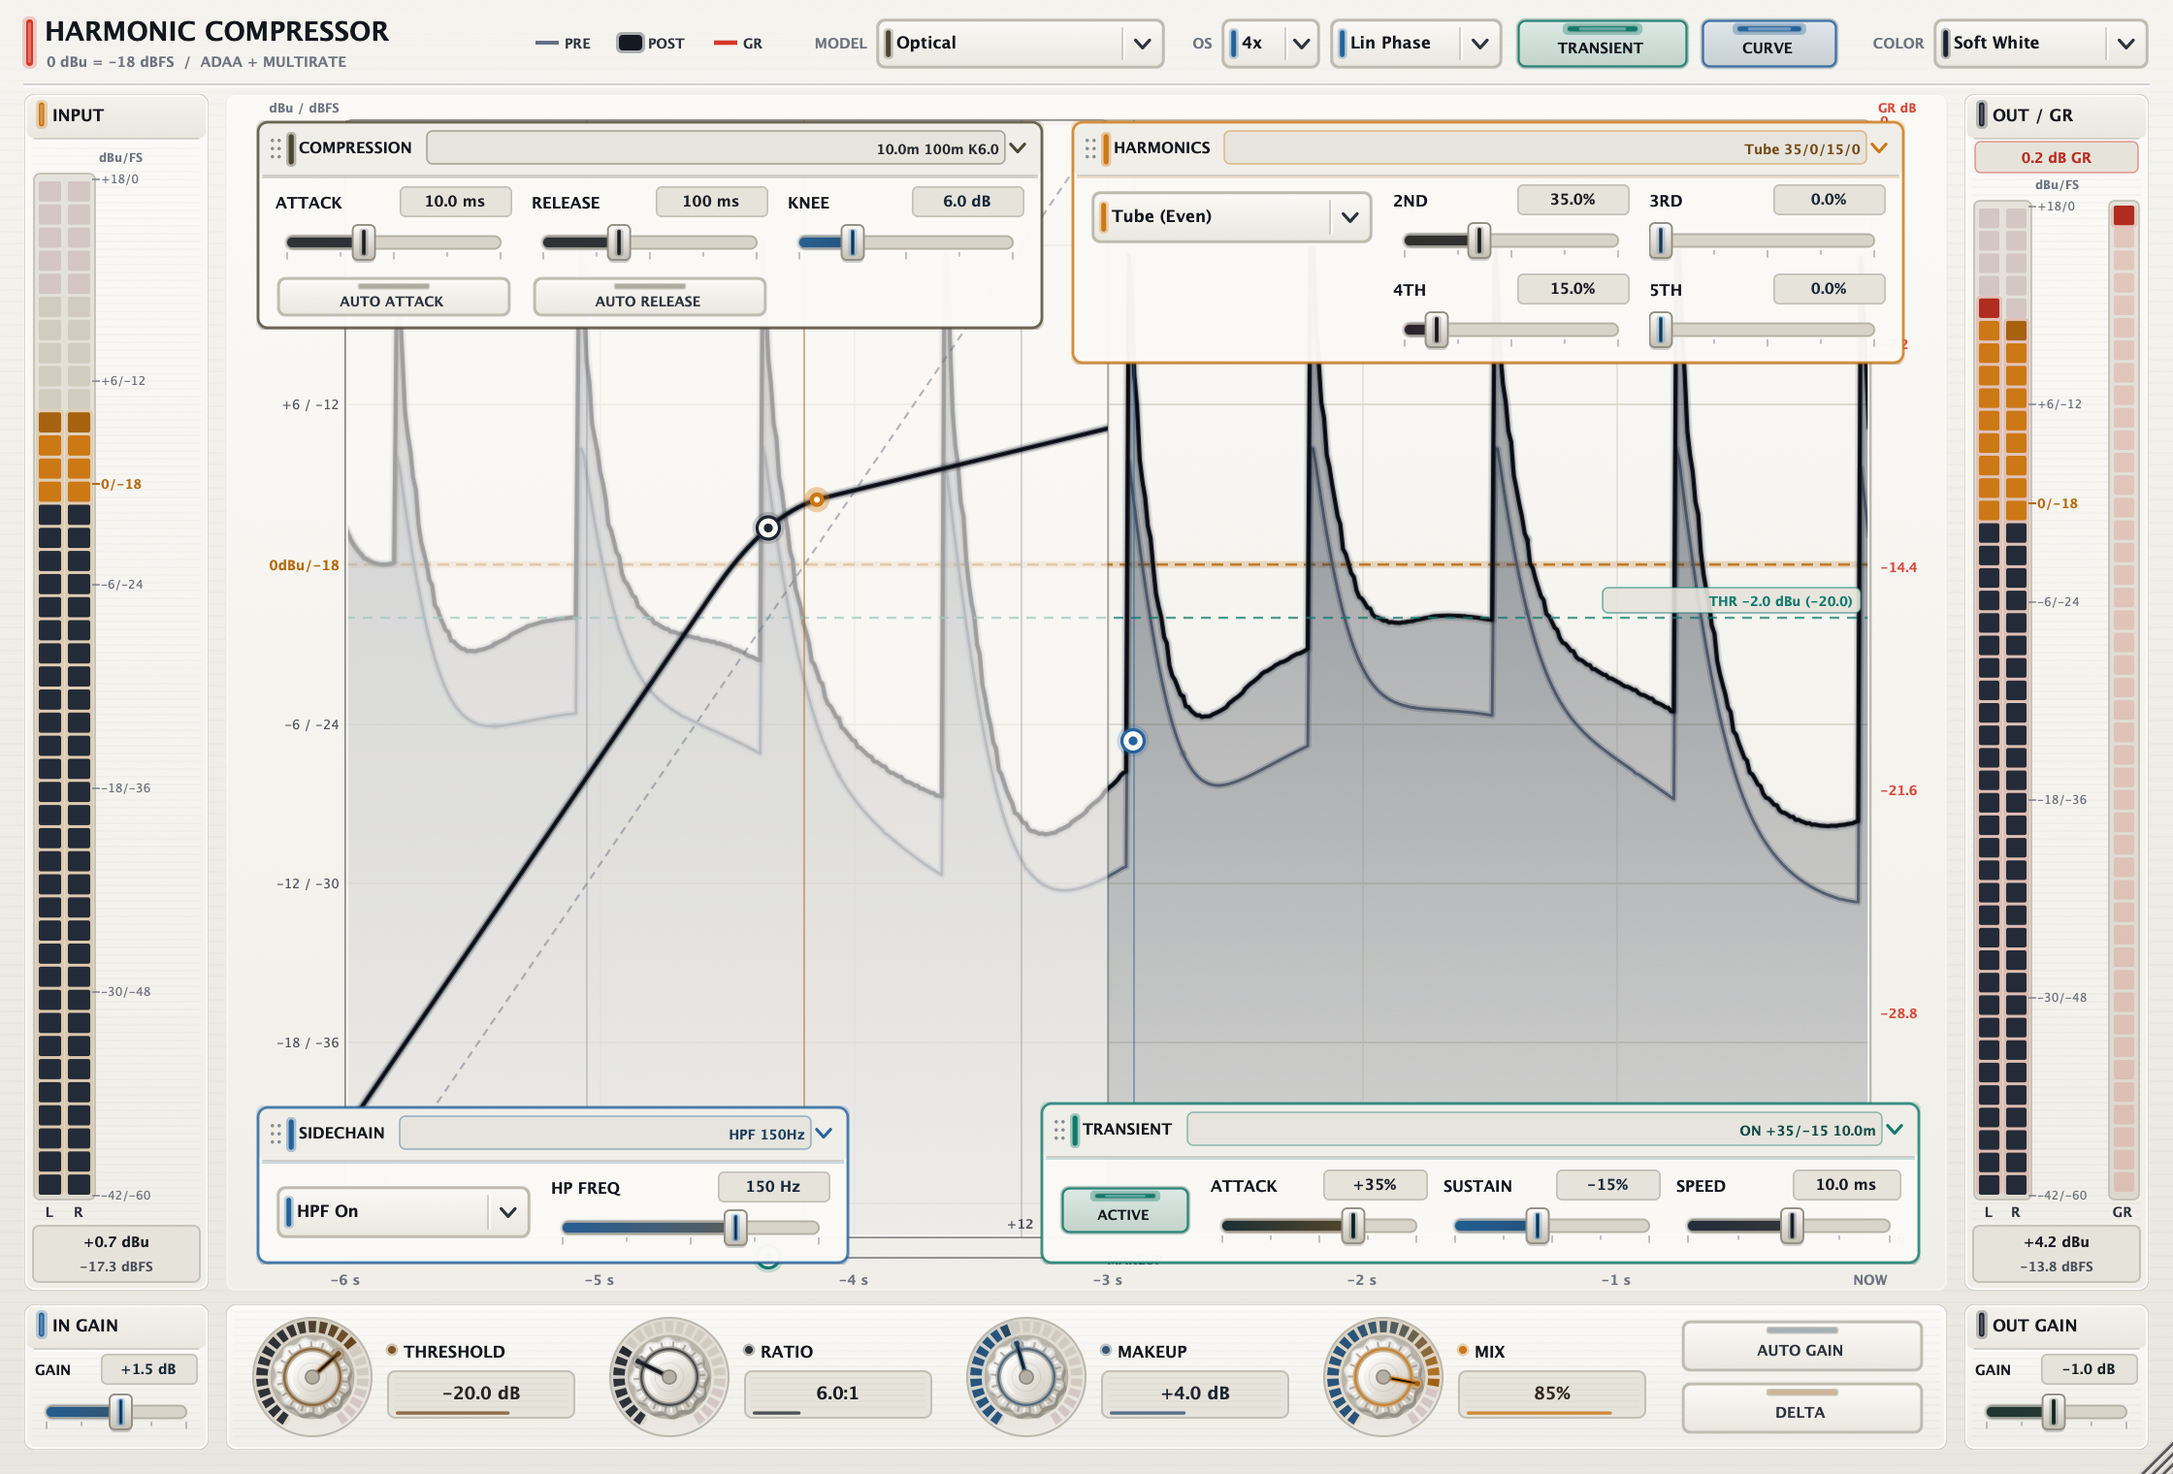
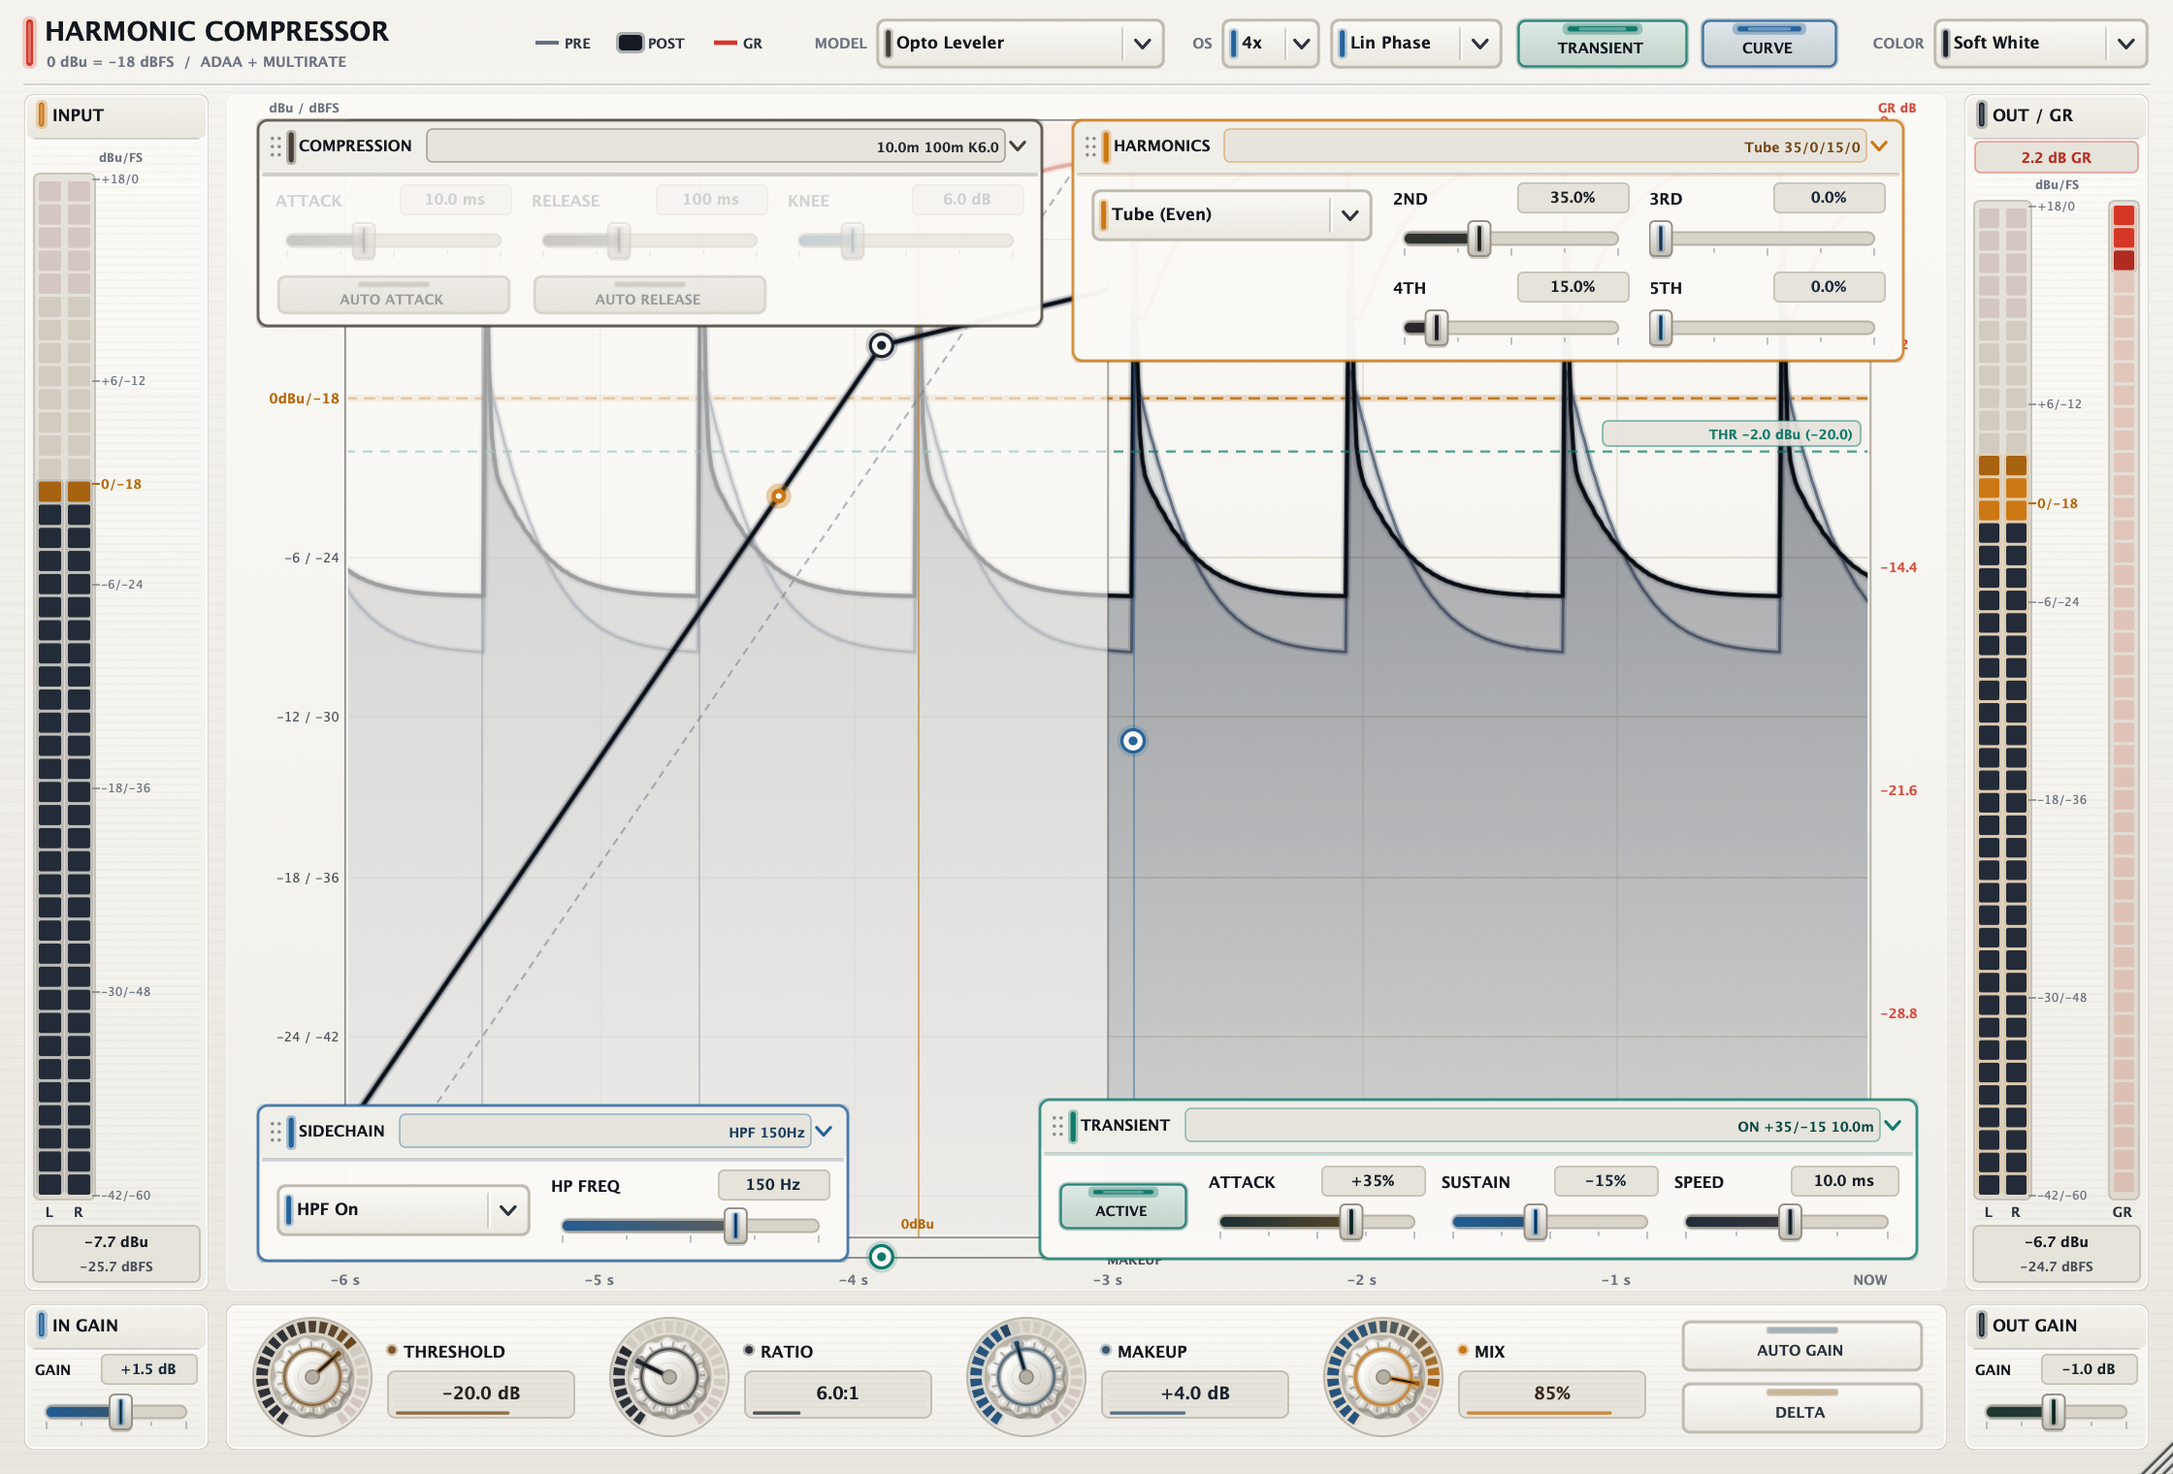
1.5.3 manual pictures and binary licence
The four manual pictures of the Opto Leveler model are rendered again
offscreen, so they show the 1.5.3 transfer curve (hard knee outside
Red). DocScreenshotRender renders them with live tone bursts; the
compose script pastes the editor into the theme grid and the host
window picture.

The binary licence names the copyright holder and the formats that
ship, refers to the MIT file by its installed name, and no longer
mentions a splash screen, which JUCE 8 does not have.

diff --git a/qa/2026-11-23-docs-1.5.3/doc_screenshots.cpp b/qa/2026-11-23-docs-1.5.3/doc_screenshots.cpp
@@ -1,0 +1,131 @@
+// Renders the user-manual pictures that show the Optical model, with the settings read from the 1.5.2
+// pictures, so they show the 1.5.3 transfer curve (hard knee outside Red). Each shot runs decaying tone
+// bursts through the processor in real time so the meters and the 6 s history fill as in a host.
+// Usage: DocScreenshotRender <outDir>
+#if defined (__APPLE__)
+ #include <CoreFoundation/CoreFoundation.h> // before JUCE: its 'using namespace juce' makes MacTypes' Point ambiguous
+#endif
+#include "PluginEditor.h"
+#include "PluginProcessor.h"
+#include <iostream>
+
+namespace
+{
+void pump (int ms)
+{
+#if JUCE_MAC
+    CFRunLoopRunInMode (kCFRunLoopDefaultMode, ms / 1000.0, false);
+#else
+    juce::ignoreUnused (ms);
+#endif
+}
+
+void set (HarmonicCompressorAudioProcessor& p, const char* id, float value)
+{
+    auto* param = p.apvts.getParameter (id);
+    param->setValueNotifyingHost (param->convertTo0to1 (value));
+}
+
+struct Shot
+{
+    const char* name;
+    int theme;
+    float threshold, ratio, makeup, mix;
+    int oversample, filter;
+    bool modules; // the "modules" picture: all four open, harmonics, sidechain and transient settings
+    bool audio;
+    float scale;
+};
+
+void run (HarmonicCompressorAudioProcessor& p, double seconds)
+{
+    constexpr int block = 512;
+    const double sr = 48000.0, period = 0.85 * sr;
+    juce::AudioBuffer<float> buffer (2, block);
+    juce::MidiBuffer midi;
+    long long n = 0;
+    for (int i = 0; i < (int) (seconds * sr / block); ++i)
+    {
+        for (int s = 0; s < block; ++s, ++n)
+        {
+            const double t = std::fmod ((double) n, period) / sr;
+            const double env = 0.035 + 0.085 * std::exp (-t / 0.15); // peaks near 0 dBu, as in the 1.5.2 pictures
+            const float v = (float) (env * std::sin (2.0 * juce::MathConstants<double>::pi * 220.0 * (double) n / sr));
+            buffer.setSample (0, s, v);
+            buffer.setSample (1, s, v);
+        }
+        p.processBlock (buffer, midi);
+        pump ((int) (1000.0 * block / sr));
+    }
+}
+} // namespace
+
+int main (int argc, char** argv)
+{
+    if (argc < 2)
+    {
+        std::cerr << "usage: DocScreenshotRender <outDir>\n";
+        return 2;
+    }
+    juce::ScopedJuceInitialiser_GUI gui;
+    const juce::File outDir (juce::File::getCurrentWorkingDirectory().getChildFile (argv[1]));
+    outDir.createDirectory();
+
+    const Shot shots[] = {
+        { "soft-white", 1, -22.0f, 5.0f, 0.0f, 1.00f, 1, 0, false, true,  2.0f },
+        { "grid-0",     0, -22.0f, 5.0f, 0.0f, 1.00f, 1, 0, false, true,  2.0f },
+        { "grid-1",     1, -22.0f, 5.0f, 0.0f, 1.00f, 1, 0, false, true,  2.0f },
+        { "grid-2",     2, -22.0f, 5.0f, 0.0f, 1.00f, 1, 0, false, true,  2.0f },
+        { "grid-3",     3, -22.0f, 5.0f, 0.0f, 1.00f, 1, 0, false, true,  2.0f },
+        { "modules",    1, -20.0f, 6.0f, 4.0f, 0.85f, 2, 1, true,  true,  2.0f },
+        { "reaper",     0, -18.0f, 4.0f, 0.0f, 1.00f, 1, 0, false, false, 1.0f },
+    };
+
+    for (const auto& s : shots)
+    {
+        HarmonicCompressorAudioProcessor p;
+        p.setRateAndBufferSizeDetails (48000.0, 512);
+        p.prepareToPlay (48000.0, 512);
+        HarmonicCompressorAudioProcessorEditor editor (p);
+        set (p, ParamIDs::algorithmMode, 5.0f); // Optical
+        set (p, ParamIDs::threshold, s.threshold);
+        set (p, ParamIDs::ratio, s.ratio);
+        set (p, ParamIDs::makeupGain, s.makeup);
+        set (p, ParamIDs::mix, s.mix);
+        set (p, ParamIDs::oversampleMode, (float) s.oversample);
+        set (p, ParamIDs::oversampleFilter, (float) s.filter);
+        if (s.modules)
+        {
+            set (p, ParamIDs::inputGain, 1.5f);
+            set (p, ParamIDs::outputGain, -1.0f);
+            set (p, ParamIDs::harmonic2, 35.0f);
+            set (p, ParamIDs::harmonic4, 15.0f);
+            set (p, ParamIDs::scEnabled, 1.0f);
+            set (p, ParamIDs::scHPFreq, 150.0f);
+            set (p, ParamIDs::transientEnabled, 1.0f);
+            set (p, ParamIDs::transientAttack, 35.0f);
+            set (p, ParamIDs::transientSustain, -15.0f);
+            set (p, ParamIDs::transientSpeed, 10.0f);
+            editor.getCompressionModule().setTopLeftPosition (16, 13);
+            editor.getHarmonicsModule().setTopLeftPosition (436, 13);
+            editor.getSidechainModule().setTopLeftPosition (16, 521);
+            editor.getTransientModule().setTopLeftPosition (419, 518);
+            for (auto* m : { &editor.getCompressionModule(), &editor.getHarmonicsModule(),
+                             &editor.getSidechainModule(), &editor.getTransientModule() })
+                m->setOpen (true);
+        }
+        editor.setColourMode (s.theme);
+        pump (200);
+        if (s.audio)
+            run (p, 8.0);
+        else
+            pump (500);
+        const auto image = editor.createComponentSnapshot (editor.getLocalBounds(), true, s.scale);
+        juce::File file (outDir.getChildFile (juce::String ("editor-") + s.name + ".png"));
+        file.deleteFile();
+        juce::FileOutputStream stream (file);
+        juce::PNGImageFormat().writeImageToStream (image, stream);
+        std::cout << s.name << " " << image.getWidth() << "x" << image.getHeight() << '\n';
+    }
+    return 0;
+}

diff --git a/qa/2026-11-23-docs-1.5.3/compose_doc_screenshots.py b/qa/2026-11-23-docs-1.5.3/compose_doc_screenshots.py
@@ -1,0 +1,66 @@
+#!/usr/bin/env python3
+"""Put the 1.5.3 editor renders (DocScreenshotRender) into the user-manual pictures.
+soft-white and modules are full 2x editor renders and replace the pictures. In the theme grid and the
+host-window picture the whole editor is replaced in place; its position and scale are found by matching
+the IN GAIN panel, which did not change between versions.
+Usage: compose_doc_screenshots.py <render dir> <Docs dir> <out dir>"""
+import sys
+from pathlib import Path
+import numpy as np
+from PIL import Image
+
+EDITOR = (1120, 760)      # editor logical px
+IG = (12, 672, 92, 76)    # IN GAIN panel, logical px
+
+renders, docs, out = map(Path, sys.argv[1:4])
+out.mkdir(parents=True, exist_ok=True)
+
+
+def arr(img):
+    return np.asarray(img.convert("RGB"), dtype=np.float32)
+
+
+def locate(target, ref, scales, x0, y0, radius):
+    """Editor origin (x, y) and scale in target, by matching ref's IN GAIN panel (ref rendered at 2x)."""
+    tgt = arr(target)
+    best = None
+    for s in scales:
+        w, h = round(IG[2] * s), round(IG[3] * s)
+        tpl = arr(ref.crop((IG[0] * 2, IG[1] * 2, (IG[0] + IG[2]) * 2, (IG[1] + IG[3]) * 2)).resize((w, h), Image.LANCZOS))
+        ex, ey = x0 + IG[0] * s, y0 + IG[1] * s
+        for dy in range(-radius, radius + 1):
+            for dx in range(-radius, radius + 1):
+                X, Y = round(ex) + dx, round(ey) + dy
+                if X < 0 or Y < 0 or Y + h > tgt.shape[0] or X + w > tgt.shape[1]:
+                    continue
+                e = float(np.mean((tgt[Y:Y + h, X:X + w] - tpl) ** 2))
+                if best is None or e < best[0]:
+                    best = (e, X - IG[0] * s, Y - IG[1] * s, s)
+    return best
+
+
+def replace(target, editor, ox, oy, s):
+    size = (round(EDITOR[0] * s), round(EDITOR[1] * s))
+    target.paste(editor.convert("RGB").resize(size, Image.LANCZOS), (round(ox), round(oy)))
+
+
+for name in ("soft-white", "modules"):
+    Image.open(renders / f"editor-{name}.png").convert("RGB").save(out / f"harmonic-compressor-{name}.png", optimize=True)
+    print(name, "replaced")
+
+# Theme grid: four editors, found near the cell origins of the 1.5.2 grid (2798x1996).
+grid = Image.open(docs / "harmonic-compressor-themes-grid.png").convert("RGB")
+for theme, (x0, y0) in enumerate([(25, 60), (1415, 60), (25, 1047), (1415, 1047)]):
+    editor = Image.open(renders / f"editor-grid-{theme}.png")
+    e, ox, oy, s = locate(grid, editor, [k / 1000 for k in range(1196, 1236, 2)], x0, y0, 40)
+    print(f"grid-{theme}: origin {ox:.1f},{oy:.1f} scale {s:.3f} error {e:.1f}")
+    replace(grid, editor, ox, oy, s)
+grid.save(out / "harmonic-compressor-themes-grid.png", optimize=True)
+
+# Host window (1120x813): the editor at 1x below the host's title and toolbar.
+host = Image.open(docs / "harmonic-compressor-reaper.png").convert("RGB")
+ref = Image.open(renders / "editor-grid-0.png")  # Matrix theme at 2x, same IN GAIN panel
+e, ox, oy, s = locate(host, ref, [1.0], 0, 53, 8)
+print(f"reaper: origin {ox:.1f},{oy:.1f} error {e:.1f}")
+host.paste(Image.open(renders / "editor-reaper.png").convert("RGB"), (round(ox), round(oy)))
+host.save(out / "harmonic-compressor-reaper.png", optimize=True)

diff --git a/qa/2026-11-17-release-1.5.3/ledger.md b/qa/2026-11-17-release-1.5.3/ledger.md
@@ -5,7 +5,9 @@ Engineering Wiki copy), after the audit fixes of the same day (`qa/2026-11-17-au
 1.5.2 → 1.5.3. macOS ships as one signed, notarized `.pkg`; no ZIP, no Standalone.
 
 Build: Mac (arm64, macOS 15.7.5, Xcode 16.0), Release, universal arm64 + x86_64, macOS 11.0 minimum, from
-commit bf1ec03 (clean tree). Later commits change only documents and QA files, no build input. Dependency
+commit bf1ec03 (clean tree). Later commits change no plug-in build input (documents, QA files, a doc render
+tool target). The installer was rebuilt on 2026-11-23 with the same signed plug-ins and the new manual and
+binary licence. Dependency
 revisions: `build-env.txt`. Artifacts outside git (`dist/release-1.5.3/`).
 
 | ID | Item | Evidence | Status |
@@ -13,7 +15,7 @@ revisions: `build-env.txt`. Artifacts outside git (`dist/release-1.5.3/`).
 | R1 | Version 1.5.3 in VERSION, CMake project, bundle plists, README, manual | AU `CFBundleShortVersionString` 1.5.3; manual title and page footers | verified |
 | R2 | Release notes, README version and download section, GitHub release text | `RELEASE_NOTES.md`, `README.md`, `Docs/RELEASE_1.5.3.md` | verified |
 | R3 | Manual matches the code: stereo-linked models, per-model memory saved with the session, external sidechain, Knee Red only | `Docs/UserManual.md`; PDF rebuilt, all 7 pages looked at | verified |
-| R4 | Manual screenshots | the GUI change is the Knee knob dimmed outside Red and the curve's hard knee outside Red. The pictures show Optical with a slightly rounded curve at the threshold; Knee itself is not visible in them (the Compression module is collapsed or Optical, where Knee was already dimmed) | open: owner decides whether to re-render |
+| R4 | Manual screenshots show the 1.5.3 curve (hard knee outside Red) | user decision 2026-11-23: re-render. `qa/2026-11-23-docs-1.5.3/doc_screenshots.cpp` (`DocScreenshotRender`) renders the four Opto Leveler pictures offscreen with live tone bursts; `compose_doc_screenshots.py` replaces the main and modules pictures and pastes the editor into the theme grid and the host-window picture (located by the unchanged IN GAIN panel). The host-window frame is the old capture, so its title still reads the former manufacturer name. Looked at each picture and the PDF pages | verified |
 | R5 | Universal binaries, min macOS 11.0, all five formats | `lipo -archs`, `vtool`: x86_64 arm64, minos 11.0 for VST3, AU, CLAP, LV2, AAX | verified |
 | R6 | CTest on the release build | `ctest.log`: 4/4 | verified |
 | R7 | Build warnings in project sources | `build.log`: none (all warnings are in JUCE and other dependencies) | verified |
@@ -29,6 +31,7 @@ revisions: `build-env.txt`. Artifacts outside git (`dist/release-1.5.3/`).
 | R17 | Manifest (schema 2) from the final stapled `.pkg` | `opengrid-manifest.json`: 24,641,983 bytes, SHA-256 ca993bf794674fdaf2a0f0f11527ec279d7cff67da2a8a6dc252d86d2469ad77, universal, 11.0, modern, 5 installs | verified |
 | R18 | Commits as MistaMin, no assistant attribution lines | `git log --format='%an %ae%n%B'` | verified locally; GitHub check after push |
 | R19 | No third-party product names in source | two comments in `CompressorCore.h` renamed | verified |
+| R19b | Copyright holder and licence files (Section 7.3) | `grep` over first-party files: only Marcos Quirino Deida. `LICENSE-BINARIES.txt` corrected 2026-11-23: holder line added; formats (no Standalone); JUCE 8 has no splash screen, so the splash and licence-tier text was removed (user decision); MIT file name as installed | verified |
 | R20 | Windows and Linux builds | need user-owned native machines | out of scope (user decision 2026-11-08) |
 | R21 | Pro Tools interactive session, Logic, Studio One; listening to the Red/Hybrid change | not run | unverified |
 | R22 | Push, tag `v1.5.3`, GitHub release, `RELEASE-READY`, Plugin Manager upload | waits for the owner's approval | todo |

diff --git a/README.md b/README.md
@@ -98,5 +98,5 @@ A color user manual with model descriptions, signal flow and all 27 host paramet
 
 - **Plugin Code:** Open-source under the [MIT License](LICENSE), copyright Marcos Quirino Deida.
 - **Official binaries:** freeware under [LICENSE-BINARIES.txt](LICENSE-BINARIES.txt); third-party notices in [THIRD_PARTY_LICENSES.md](THIRD_PARTY_LICENSES.md).
-- **Framework:** Depends on [JUCE](https://juce.com) (dual-licensed under AGPLv3 / Commercial Starter/Pro).
+- **Framework:** Depends on [JUCE](https://juce.com) (licensed separately by Raw Material Software; see [THIRD_PARTY_LICENSES.md](THIRD_PARTY_LICENSES.md)).
 - **Trademarks:** AAX and Pro Tools are trademarks of Avid Technology, Inc.

diff --git a/THIRD_PARTY_LICENSES.md b/THIRD_PARTY_LICENSES.md
@@ -15,5 +15,5 @@ The AAX SDK implementation is not distributed in this repository. AAX and Pro To
 are trademarks of Avid Technology, Inc. PACE signing does not grant a license to
 redistribute the SDK.
 
-Pinned JUCE and GoodLookinUI revisions are recorded in the release build workflow.
+The JUCE, GoodLookinUI and clap-juce-extensions revisions of each release build are recorded in its QA folder (`qa/<date>-release-<version>/build-env.txt`).
 The CLAP extension revision is recorded in CMakeLists.txt.

diff --git a/Docs/Release-1.5.3-QA.md b/Docs/Release-1.5.3-QA.md
@@ -24,6 +24,5 @@ Status: macOS 1.5.3 built, signed, notarized and verified on 2026-11-17 as a sin
 
 - REAPER with the AU: on this machine REAPER loads the AU installed in `/Library` (an older version).
 - Pro Tools interactive session, Logic, Studio One.
-- Manual screenshots still show the Optical curve with a slightly rounded knee; 1.5.3 draws it hard.
 - Windows and Linux builds (native machines required).
 - Publishing: push, tag, GitHub release, Plugin Manager staging and upload.
